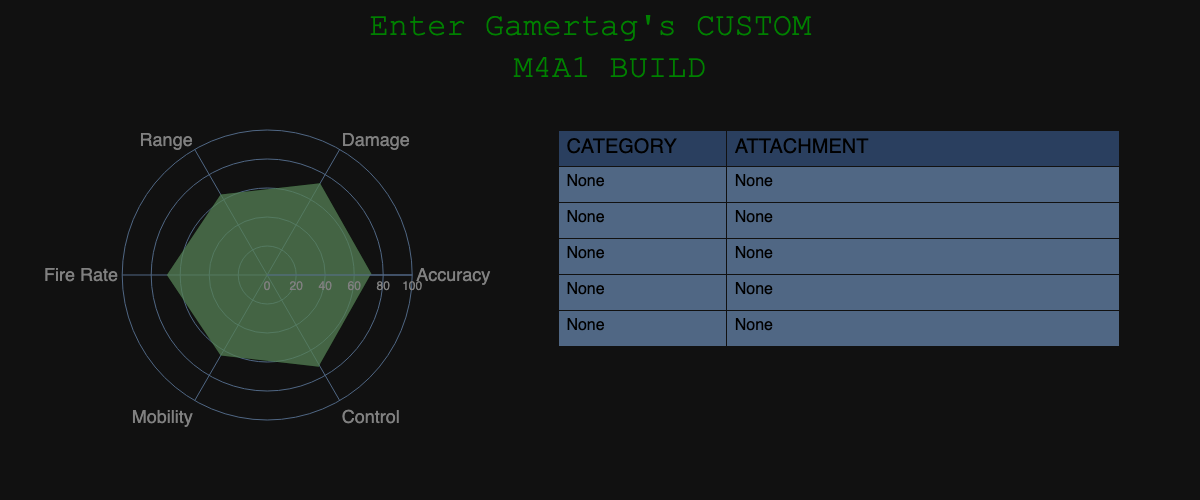
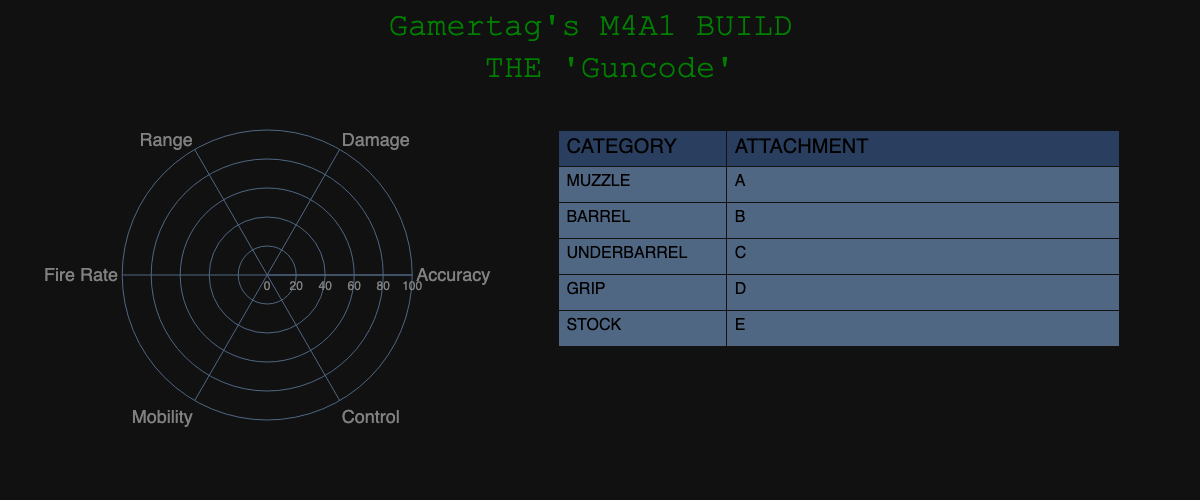
added naming option

diff --git a/app.py b/app.py
@@ -52,6 +52,15 @@ app.layout = html.Div([
             html.Br(),
             html.Br(),
 
+            html.H2("NAME YOUR BUILD"),
+            dcc.Input(id = "guncode",
+                      type = 'text',
+                      value = 'Enter Guncode',
+                      style = {'textAlign': 'center'},
+            ),
+            html.Br(),
+            html.Br(),
+
             html.H2('CHOOSE YOUR WEAPON'),
             dcc.Dropdown(
                 id = 'weapon-dropdown',
@@ -363,6 +372,7 @@ def update_dropdown(wep_val,cat_val):
     dash.dependencies.Output('radar', 'figure'),
     [dash.dependencies.Input('weapon-dropdown', 'value'),
     dash.dependencies.Input('gamertag', 'value'),
+    dash.dependencies.Input('guncode', 'value'),
     dash.dependencies.Input('cat1', 'value'),
     dash.dependencies.Input('cat2', 'value'),
     dash.dependencies.Input('cat3', 'value'),
@@ -373,14 +383,14 @@ def update_dropdown(wep_val,cat_val):
     dash.dependencies.Input('att3', 'value'),
     dash.dependencies.Input('att4', 'value'),
     dash.dependencies.Input('att5', 'value'),])
-def update_dropdown(wep, gamertag, cat1, cat2, cat3, cat4, cat5, att1, att2, att3, att4, att5):
+def update_dropdown(wep, gamertag, guncode, cat1, cat2, cat3, cat4, cat5, att1, att2, att3, att4, att5):
     categories = [cat1, cat2, cat3, cat4, cat5]
     attachments = [att1, att2, att3, att4, att5]
 
     base = base_stats(df, wep)
     agg = aggregate(df, wep, attachments)
     attachment_formatting = [categories, attachments]
-    return make_graph(base, agg, wep, gamertag, attachment_formatting)
+    return make_graph(base, agg, wep, gamertag, guncode, attachment_formatting)
 
 
 

diff --git a/graph2.py b/graph2.py
@@ -12,7 +12,7 @@ values = [['MUZZLE','BARREL','UNDERBARREL','GRIP','STOCK'],
 
 categories = ['Accuracy','Damage','Range','Fire Rate','Mobility','Control']
 
-def make_graph(original = m4base, updated = upgrade, gun = "M4A1", gamertag = "Gamertag",values = values):
+def make_graph(original = m4base, updated = upgrade, gun = "M4A1", gamertag = "Gamertag", guncode = "Guncode",values = values):
 
     fig = make_subplots(
         rows = 1, 
@@ -71,7 +71,7 @@ def make_graph(original = m4base, updated = upgrade, gun = "M4A1", gamertag = "G
     
     fig.update_layout(
         title={
-            'text': "{}'s CUSTOM <br> {} BUILD".format(gamertag, gun),
+            'text': "{}'s {} BUILD <br> THE '{}'".format(gamertag, gun, guncode),
             'y':0.93,
             'x':0.5,
             'xanchor': 'center',
